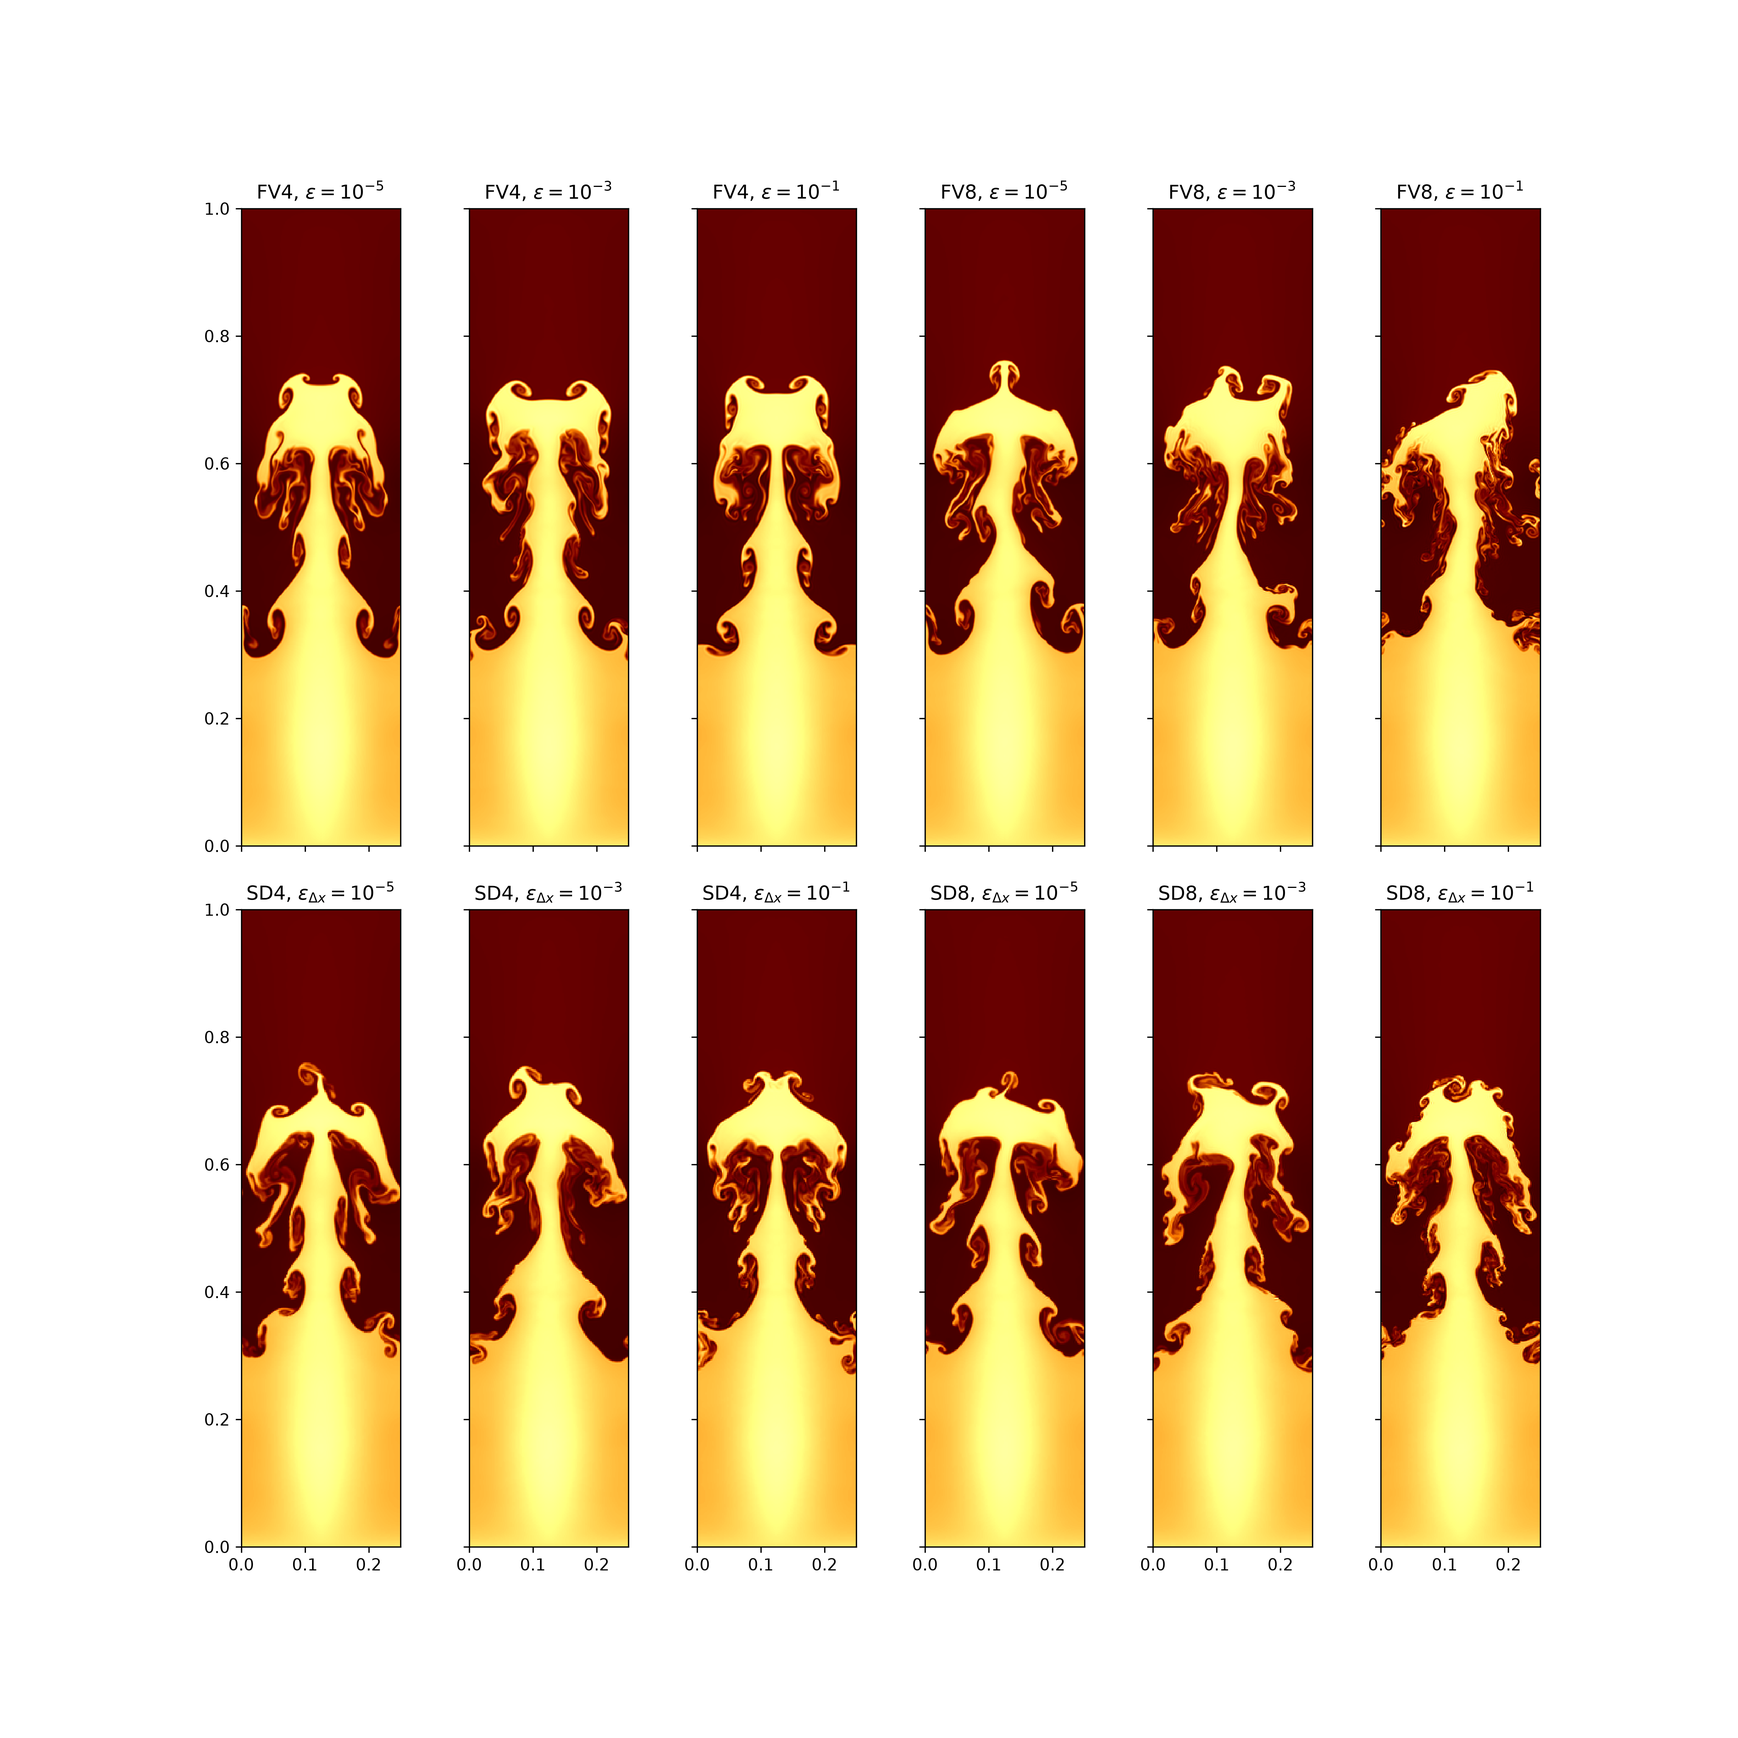
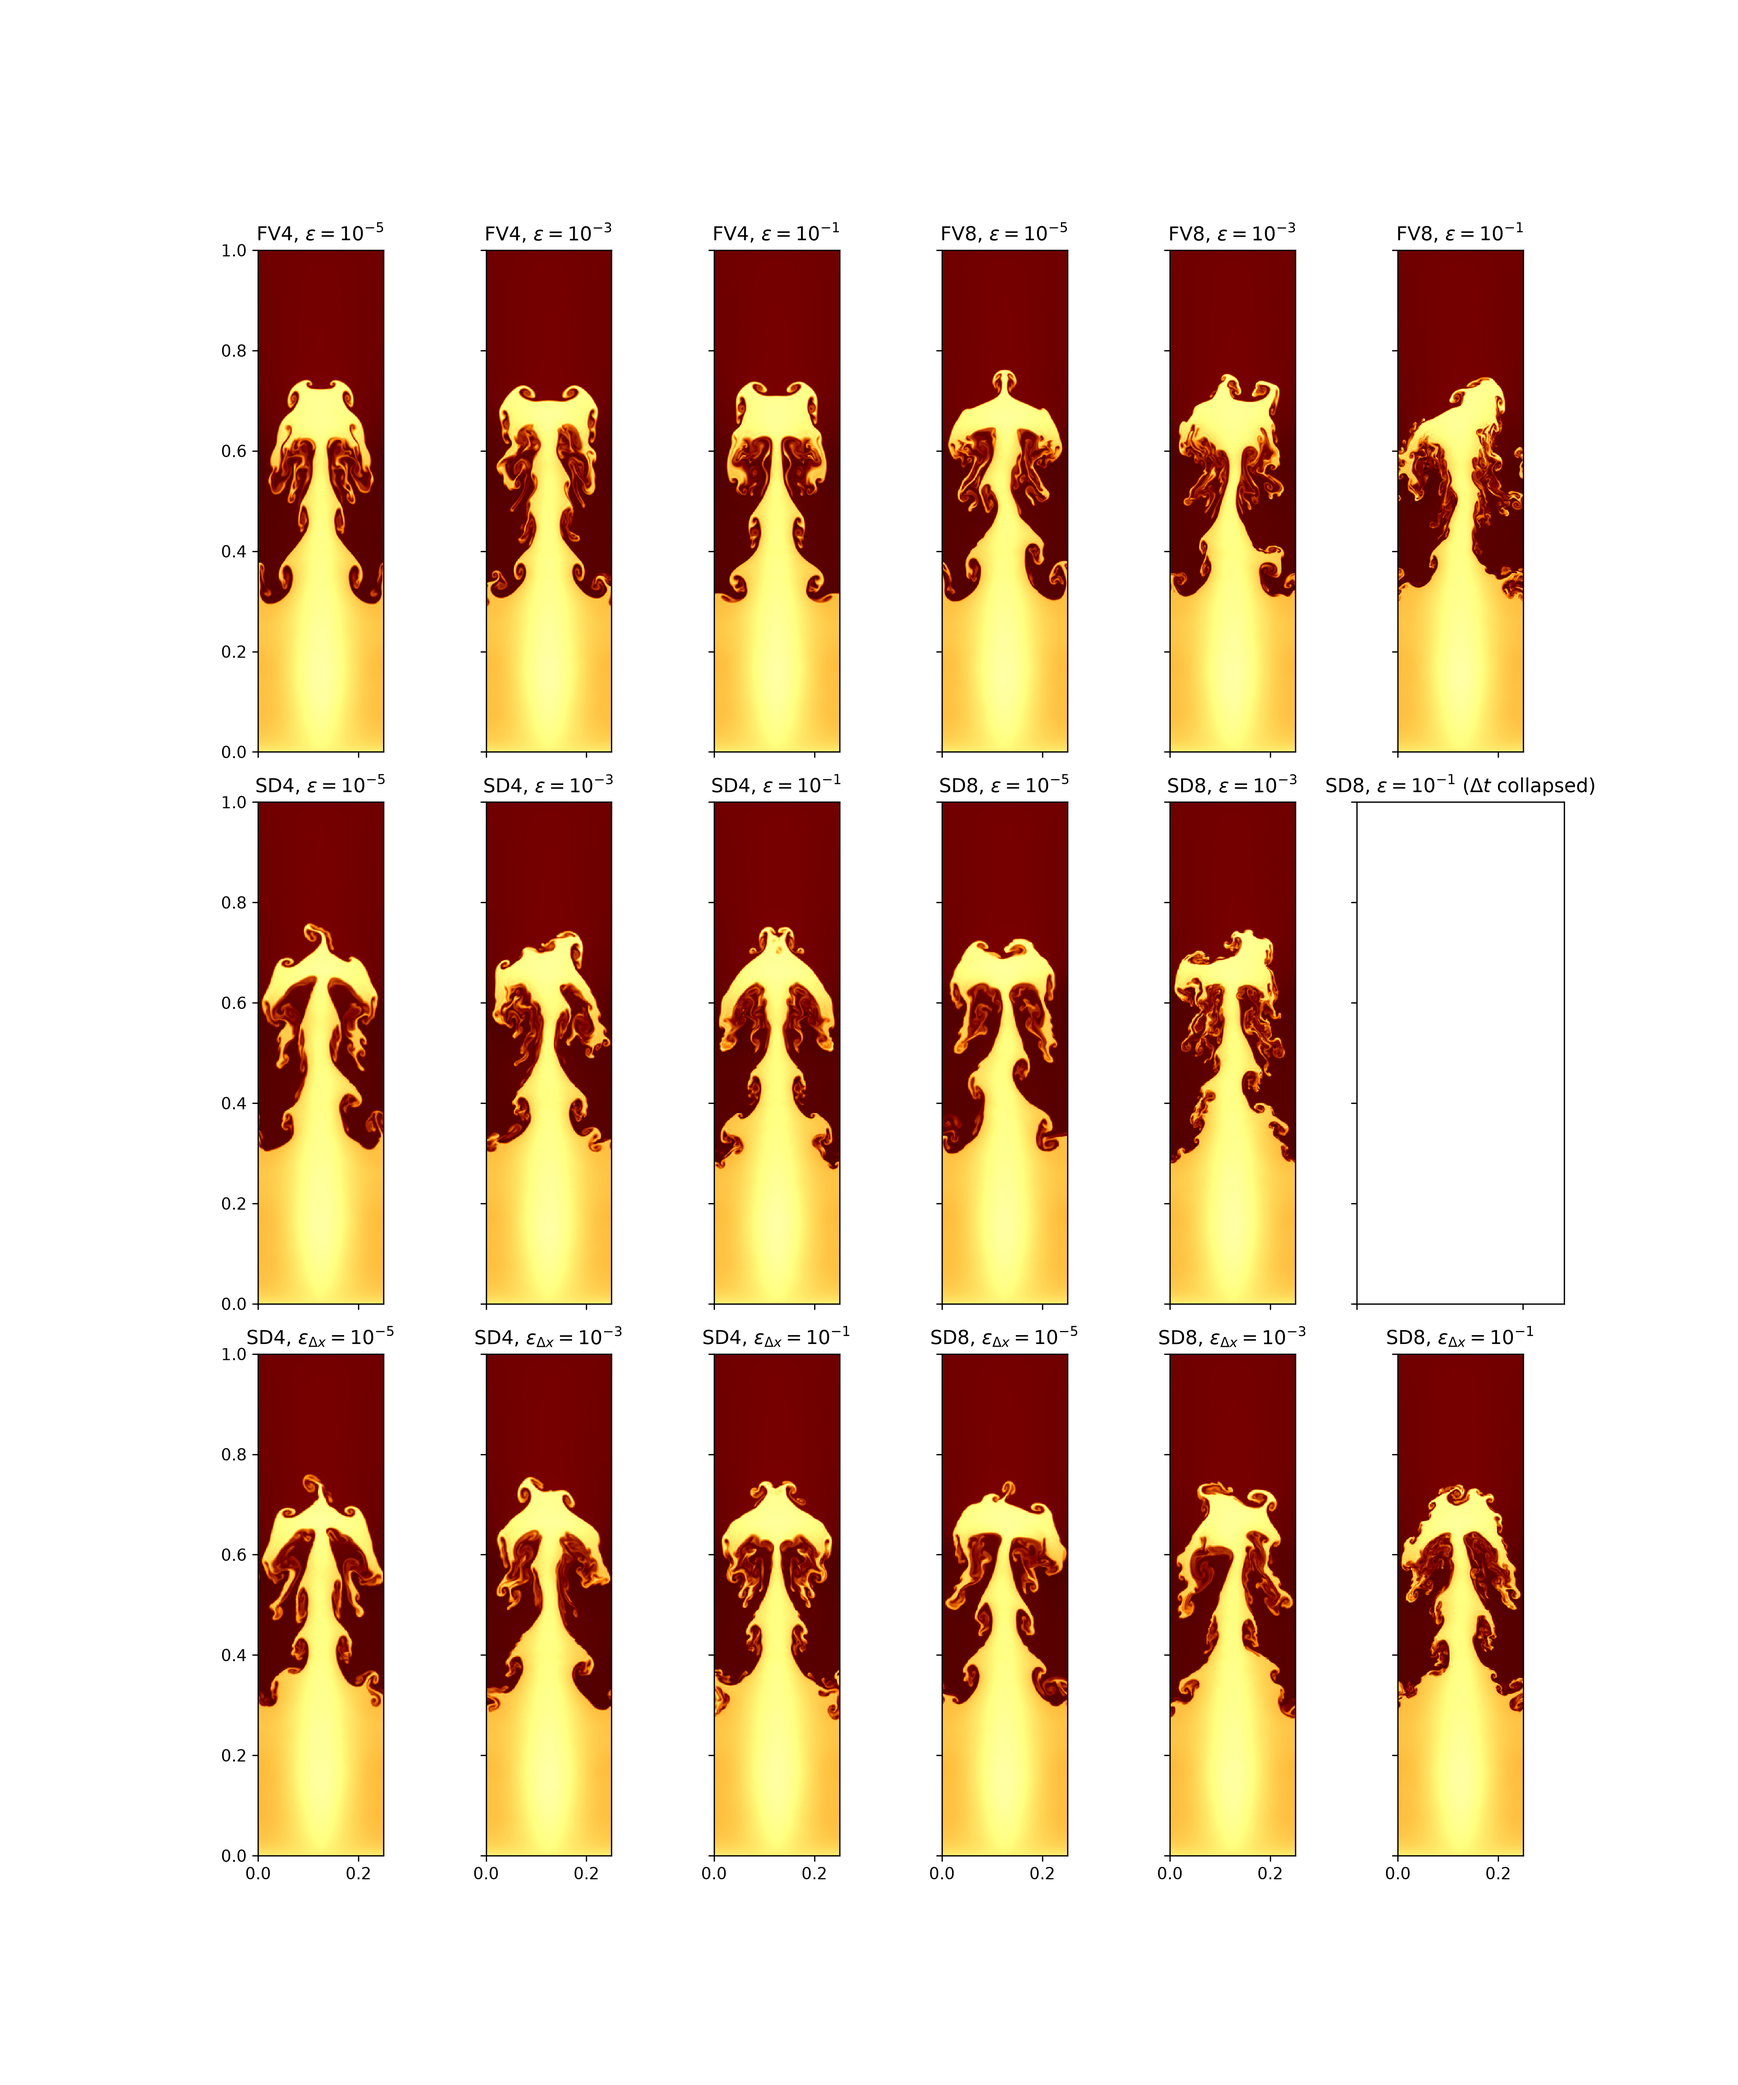
include both SD NAD formulas in RTI results with both p=3 and p=7

diff --git a/sd-compare/rayleigh-taylor-instability/main_script.py b/sd-compare/rayleigh-taylor-instability/main_script.py
@@ -262,13 +262,36 @@ if __name__ == "__main__":
     sim4 = run_fv_simulation(t=t, ny=N, p=7, rtol=1e-5)
     sim5 = run_fv_simulation(t=t, ny=N, p=7, rtol=1e-3)
     sim6 = run_fv_simulation(t=t, ny=N, p=7, rtol=1e-1)
-    sim7 = run_sd_simulation(t=t, ndofy=N, p=3, rtol=1e-5, nad_cfl=True)
-    sim8 = run_sd_simulation(t=t, ndofy=N, p=3, rtol=1e-3, nad_cfl=True)
-    sim9 = run_sd_simulation(t=t, ndofy=N, p=3, rtol=1e-1, nad_cfl=True)
-    sim10 = run_sd_simulation(t=t, ndofy=N, p=7, rtol=1e-5, nad_cfl=True)
-    sim11 = run_sd_simulation(t=t, ndofy=N, p=7, rtol=1e-3, nad_cfl=True)
-    sim12 = run_sd_simulation(t=t, ndofy=N, p=7, rtol=1e-1, nad_cfl=True)
-    sim_list = [sim1, sim2, sim3, sim4, sim5, sim6, sim7, sim8, sim9, sim10, sim11, sim12]
+    sim7 = run_sd_simulation(t=t, ndofy=N, p=3, rtol=1e-5)
+    sim8 = run_sd_simulation(t=t, ndofy=N, p=3, rtol=1e-3)
+    sim9 = run_sd_simulation(t=t, ndofy=N, p=3, rtol=1e-1)
+    sim10 = run_sd_simulation(t=t, ndofy=N, p=7, rtol=1e-5)
+    sim11 = run_sd_simulation(t=t, ndofy=N, p=7, rtol=1e-3)
+    sim12 = run_sd_simulation(t=t, ndofy=N, p=3, rtol=1e-5, nad_cfl=True)
+    sim13 = run_sd_simulation(t=t, ndofy=N, p=3, rtol=1e-3, nad_cfl=True)
+    sim14 = run_sd_simulation(t=t, ndofy=N, p=3, rtol=1e-1, nad_cfl=True)
+    sim15 = run_sd_simulation(t=t, ndofy=N, p=7, rtol=1e-5, nad_cfl=True)
+    sim16 = run_sd_simulation(t=t, ndofy=N, p=7, rtol=1e-3, nad_cfl=True)
+    sim17 = run_sd_simulation(t=t, ndofy=N, p=7, rtol=1e-1, nad_cfl=True)
+    sim_list = [
+        sim1,
+        sim2,
+        sim3,
+        sim4,
+        sim5,
+        sim6,
+        sim7,
+        sim8,
+        sim9,
+        sim10,
+        sim11,
+        sim12,
+        sim13,
+        sim14,
+        sim15,
+        sim16,
+        sim17,
+    ]
 
     uniform_sd = False
 
@@ -277,7 +300,7 @@ if __name__ == "__main__":
     print(f"Global density range: {rhomin:.3f} to {rhomax:.3f}")
 
     print("Plotting results...")
-    fig, axs = plt.subplots(2, 6, figsize=(15, 15), sharex=True, sharey=True)
+    fig, axs = plt.subplots(3, 6, figsize=(15, 18), sharex=True, sharey=True)
 
     axs[0, 0].set_title(r"FV4, $\epsilon=10^{-5}$")
     plot_fv_density(axs[0, 0], sim1, cmap="afmhot", vmin=rhomin, vmax=rhomax)
@@ -292,18 +315,31 @@ if __name__ == "__main__":
     axs[0, 5].set_title(r"FV8, $\epsilon=10^{-1}$")
     plot_fv_density(axs[0, 5], sim6, cmap="afmhot", vmin=rhomin, vmax=rhomax)
 
-    axs[1, 0].set_title(r"SD4, $\epsilon_{\Delta x}=10^{-5}$")
+    axs[1, 0].set_title(r"SD4, $\epsilon=10^{-5}$")
     plot_sd_density(axs[1, 0], sim7, uniform=uniform_sd, cmap="afmhot", vmin=rhomin, vmax=rhomax)
-    axs[1, 1].set_title(r"SD4, $\epsilon_{\Delta x}=10^{-3}$")
+    axs[1, 1].set_title(r"SD4, $\epsilon=10^{-3}$")
     plot_sd_density(axs[1, 1], sim8, uniform=uniform_sd, cmap="afmhot", vmin=rhomin, vmax=rhomax)
-    axs[1, 2].set_title(r"SD4, $\epsilon_{\Delta x}=10^{-1}$")
+    axs[1, 2].set_title(r"SD4, $\epsilon=10^{-1}$")
     plot_sd_density(axs[1, 2], sim9, uniform=uniform_sd, cmap="afmhot", vmin=rhomin, vmax=rhomax)
-    axs[1, 3].set_title(r"SD8, $\epsilon_{\Delta x}=10^{-5}$")
+    axs[1, 3].set_title(r"SD8, $\epsilon=10^{-5}$")
     plot_sd_density(axs[1, 3], sim10, uniform=uniform_sd, cmap="afmhot", vmin=rhomin, vmax=rhomax)
-    axs[1, 4].set_title(r"SD8, $\epsilon_{\Delta x}=10^{-3}$")
+    axs[1, 4].set_title(r"SD8, $\epsilon=10^{-3}$")
     plot_sd_density(axs[1, 4], sim11, uniform=uniform_sd, cmap="afmhot", vmin=rhomin, vmax=rhomax)
-    axs[1, 5].set_title(r"SD8, $\epsilon_{\Delta x}=10^{-1}$")
-    plot_sd_density(axs[1, 5], sim12, uniform=uniform_sd, cmap="afmhot", vmin=rhomin, vmax=rhomax)
+    axs[1, 5].set_title(r"SD8, $\epsilon=10^{-1}$ ($\Delta t$ collapsed)")
+    # no plot because of dt collapse
+
+    axs[2, 0].set_title(r"SD4, $\epsilon_{\Delta x}=10^{-5}$")
+    plot_sd_density(axs[2, 0], sim12, uniform=uniform_sd, cmap="afmhot", vmin=rhomin, vmax=rhomax)
+    axs[2, 1].set_title(r"SD4, $\epsilon_{\Delta x}=10^{-3}$")
+    plot_sd_density(axs[2, 1], sim13, uniform=uniform_sd, cmap="afmhot", vmin=rhomin, vmax=rhomax)
+    axs[2, 2].set_title(r"SD4, $\epsilon_{\Delta x}=10^{-1}$")
+    plot_sd_density(axs[2, 2], sim14, uniform=uniform_sd, cmap="afmhot", vmin=rhomin, vmax=rhomax)
+    axs[2, 3].set_title(r"SD8, $\epsilon_{\Delta x}=10^{-5}$")
+    plot_sd_density(axs[2, 3], sim15, uniform=uniform_sd, cmap="afmhot", vmin=rhomin, vmax=rhomax)
+    axs[2, 4].set_title(r"SD8, $\epsilon_{\Delta x}=10^{-3}$")
+    plot_sd_density(axs[2, 4], sim16, uniform=uniform_sd, cmap="afmhot", vmin=rhomin, vmax=rhomax)
+    axs[2, 5].set_title(r"SD8, $\epsilon_{\Delta x}=10^{-1}$")
+    plot_sd_density(axs[2, 5], sim17, uniform=uniform_sd, cmap="afmhot", vmin=rhomin, vmax=rhomax)
 
     plt.subplots_adjust(wspace=0.1, hspace=0.1)
 
